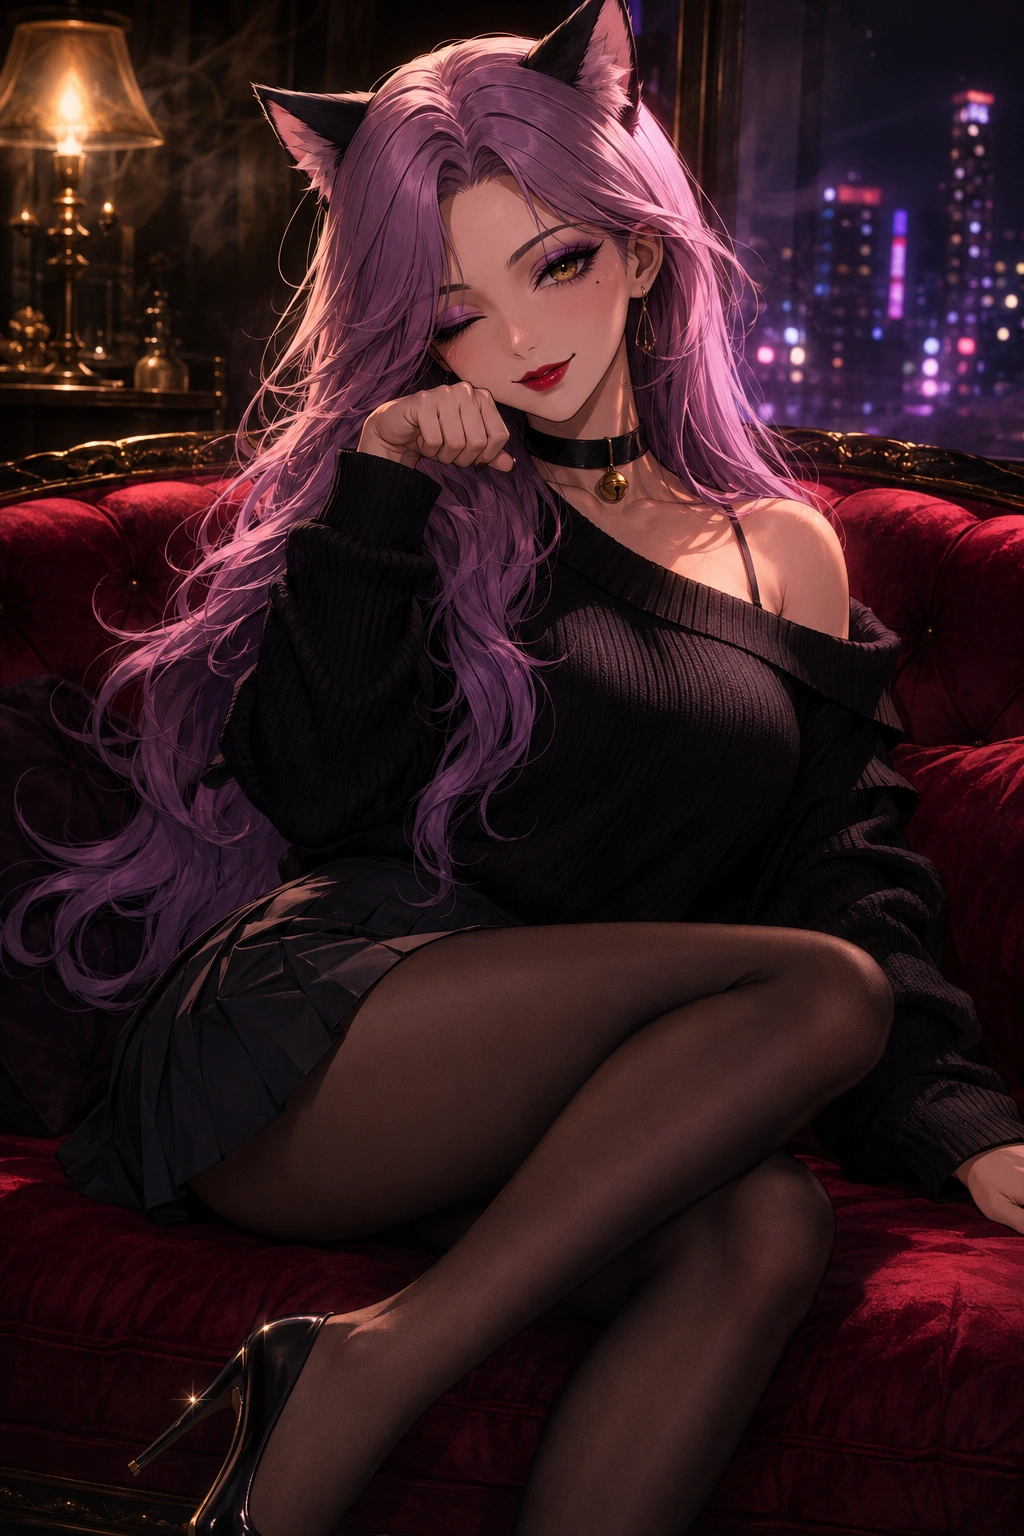
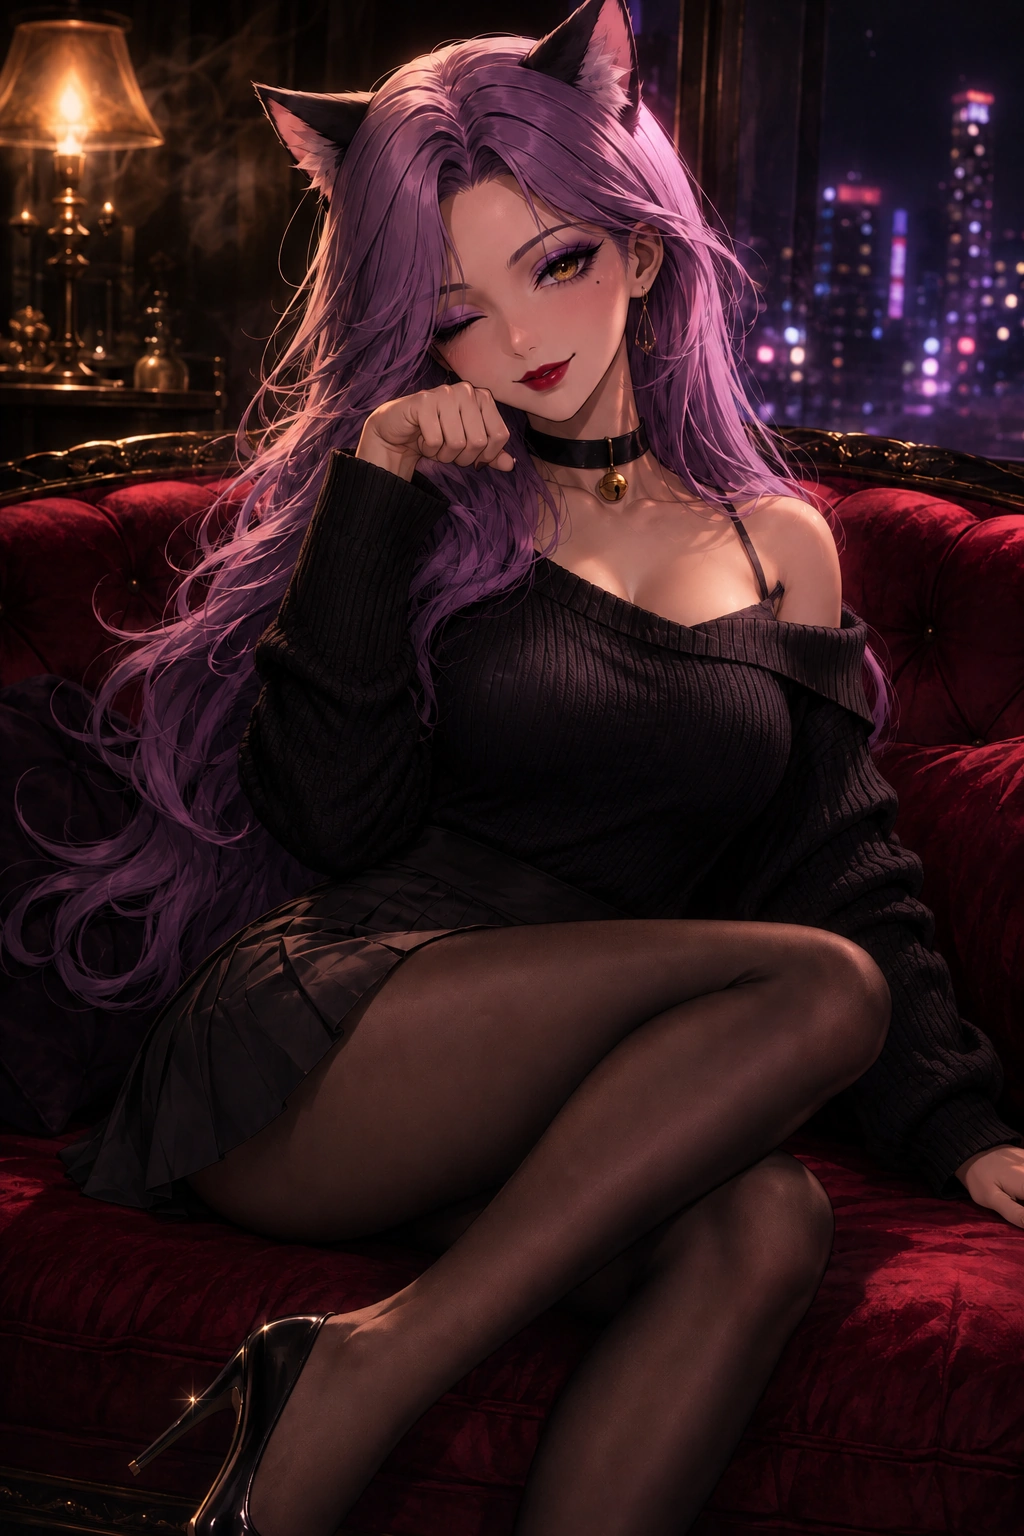
chore(release): v2.4.3

diff --git a/docs/CHANGELOG.md b/docs/CHANGELOG.md
@@ -5,12 +5,17 @@ All notable changes to this project will be documented in this file.
 The format is based on [Keep a Changelog](https://keepachangelog.com/en/1.0.0/),
 and this project adheres to [Semantic Versioning](https://semver.org/spec/v2.0.0.html).
 
-## [Unreleased]
+## [v2.4.3] - 2026-08-26
+
+### Added
+
+- **猫娘主题素材更新** — 更换扩展全套图标（16–128px）与聊天背景、高级立绘，新增 Welcome 页专属背景图，Welcome 页切换为全幅封面布局。
 
 ### Changed
 
-- **移除 `prebuild-install` 弃用警告** — `better-sqlite3` 从 `^12.1.0` 升级到 `^13.0.3`。v13 迁移到 N-API 并自带全平台预编译二进制（官方已移除已停止维护的 `prebuild-install` 依赖），安装时不再需要源码编译，也不再需要 Node headers 下载；pnpm `allowBuilds` 中对 `better-sqlite3` 的构建放行同步关闭。安装命令中的 `--allow-scripts` 白名单相应去掉了 `better-sqlite3`。
+- **`better-sqlite3` 升级到 `^13.0.3`** — v13 迁移到 N-API 并自带全平台预编译二进制（官方已移除已停止维护的 `prebuild-install` 依赖），安装时不再需要源码编译，也不再需要 Node headers 下载；pnpm `allowBuilds` 中对 `better-sqlite3` 的构建放行同步关闭。安装命令中的 `--allow-scripts` 白名单相应去掉了 `better-sqlite3`。
 - 安装文档（README / README_en / WINDOWS_INSTALL_zh）同步更新。
+- 版本统一为 v2.4.3。
 
 ## [v2.4.2] - 2026-08-25
 

diff --git a/README.md b/README.md
@@ -26,17 +26,13 @@
 
 ---
 
-## 📢 v2.4.2 更新内容
+## 📢 v2.4.3 更新内容
 
-> **向量库稳定性修复** — 串行同步 + 防重复索引。
+> **猫娘主题焕新 + 安装体验优化** — 全新图标与背景，依赖升级免编译。
 >
-> - 💾 **FS.syncfs 统一串行化** — 所有同步请求进入同一队列，超时仅报警不释放队列，避免并发竞争损坏向量库文件
-> - 🧹 **清理流程复用同步队列** — 初始化/清理不再与写入交错
-> - 📡 **防止重复注册监听器** — 内容索引器加保护标志，避免多次注册标签页监听
-> - 🔍 **向量搜索关闭重复自动索引** — `autoIndex: false`，与内容索引器职责分离
-> - 🔧 版本统一为 v2.4.2
-> - 📚 **文档校验** — 新增 `pnpm check:tool-docs`，防止工具 schema 与 API 文档再次漂移
-> - 🔧 版本统一为 v2.3.7
+> - 🎨 **主题素材全面更新** — 全套扩展图标（16–128px）、聊天背景与高级立绘更换为新作，Welcome 页新增专属背景并改为全幅封面布局
+> - 📦 **`better-sqlite3` 升级 v13** — 迁移到 N-API 预编译二进制，安装无需源码编译与 Node headers 下载，`--allow-scripts` 白名单同步精简
+> - 🔧 版本统一为 v2.4.3
 
 > 查看 [完整更新日志](docs/CHANGELOG.md) 了解所有版本变更。
 

diff --git a/README_en.md b/README_en.md
@@ -26,15 +26,13 @@
 
 ---
 
-## 📢 What's New in v2.4.2
+## 📢 What's New in v2.4.3
 
-> **Vector database stability fixes** — Serialized sync + no duplicate indexing.
+> **Catgirl theme refresh + smoother installs** — New icons & backgrounds, dependency upgrade with no source builds.
 >
-> - 💾 **FS.syncfs fully serialized** — All sync requests share one queue; timeouts only warn and never release the queue early, preventing concurrent-sync corruption of vector DB files
-> - 🧹 **Cleanup reuses the sync queue** — Init/cleanup no longer interleaves with writes
-> - 📡 **No duplicate listener registration** — Content indexer guarded against re-registering tab listeners
-> - 🔍 **Vector search disables duplicate auto-index** — `autoIndex: false`, separated from the content indexer
-> - 🔧 All packages bumped to v2.4.2
+> - 🎨 **Full theme asset update** — All extension icons (16–128px), chat background and premium portrait replaced with new artwork; dedicated Welcome background added with a full-bleed cover layout
+> - 📦 **`better-sqlite3` upgraded to v13** — N-API prebuilt binaries, no source compilation or Node headers download at install time; `--allow-scripts` whitelist trimmed accordingly
+> - 🔧 All packages bumped to v2.4.3
 
 > See the [full changelog](docs/CHANGELOG.md) for all version changes.
 
